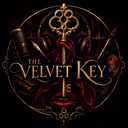
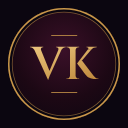
Replace The Velvet Key's AI-made emblem with a typeset wordmark
The emblem was AI-generated, which many of the voice actors and writers
the collective hopes to welcome won't be associated with. Until a
commissioned logo is ready, everything is set in type: a 'VK' monogram in
Cinzel gold for the bar, browser and home-screen icons and the share-card
mark; a 'The Velvet Key' wordmark for the catalogue's opening; a share
card with no imagery; and on the front page the name itself as a styled
heading in place of the emblem picture. The files keep their names, so
every page and saved reference picks up the new versions.

Claude-Session: https://claude.ai/code/session_014svvy6HPXjKX24Prz8V3Gg

diff --git a/the-velvet-key.html b/the-velvet-key.html
@@ -131,18 +131,25 @@
       50%       { filter: drop-shadow(0 0 55px rgba(176,40,74,0.75)) drop-shadow(0 0 110px rgba(192,57,74,0.55)); }
     }
 
-    /* The emblem carries the name, so it is the heading. */
-    .hero h1 { margin: 0 auto 1.4rem; line-height: 0; }
-    /* A softer pulse than the old title's: a big halo reads as a solid
-       backdrop behind a round emblem. */
-    @keyframes emblem-glow {
-      0%, 100% { filter: drop-shadow(0 0 6px rgba(176,40,74,0.25)); }
-      50%       { filter: drop-shadow(0 0 18px rgba(176,40,74,0.45)); }
+    /* The name, set in type: a wordmark in the same Cinzel gold as the
+       logo, with a slow glow behind it. */
+    @keyframes wordmark-glow {
+      0%, 100% { filter: drop-shadow(0 0 8px rgba(176,40,74,0.30)); }
+      50%       { filter: drop-shadow(0 0 22px rgba(176,40,74,0.55)); }
     }
-    .hero-emblem {
-      width: min(340px, 72vw); height: auto; display: inline-block;
-      animation: emblem-glow 3.5s ease-in-out infinite;
+    html body .hero h1.hero-wordmark {
+      display: flex; flex-direction: column; align-items: center; margin: 0.4rem auto 1.4rem;
+      font-family: "Cinzel", serif; font-weight: 600; text-transform: uppercase; line-height: 1.05;
+      background: none; -webkit-text-fill-color: initial; color: inherit;
+      animation: wordmark-glow 3.5s ease-in-out infinite;
     }
+    .hero-wordmark span {
+      background: linear-gradient(160deg, #fff1d2 0%, #e8c27a 35%, #c08a3e 65%, #8a5a22 100%);
+      -webkit-background-clip: text; background-clip: text; -webkit-text-fill-color: transparent; color: transparent;
+    }
+    .hero-wordmark .wm-the { font-size: clamp(0.95rem, 2.4vw, 1.35rem); font-weight: 500; letter-spacing: 0.5em; padding-left: 0.5em; margin-bottom: 0.35rem; }
+    .hero-wordmark .wm-name { font-size: clamp(2.6rem, 9vw, 5.2rem); letter-spacing: 0.06em; }
+    @media (prefers-reduced-motion: reduce) { .hero-wordmark { animation: none !important; } }
 
     .hero-divider {
       display: flex;
@@ -700,7 +707,7 @@
 
   <section class="hero">
     <span class="hero-eyebrow">Welcome to</span>
-    <h1><img class="hero-emblem" src="images/velvet-key-mark.png" alt="The Velvet Key" width="400" height="400"></h1>
+    <h1 class="hero-wordmark"><span class="wm-the">The</span><span class="wm-name">Velvet Key</span></h1>
     <div class="hero-divider"><span></span><i></i><span></span></div>
     <p class="hero-tagline">Intimate audio, crafted with intention.<br>Stories that know exactly what they are.</p>
     <p class="hero-creators">A showcase for voice artists, writers and producers. Put your work where listeners are looking.</p>
